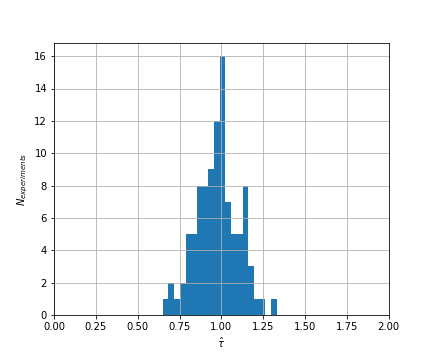
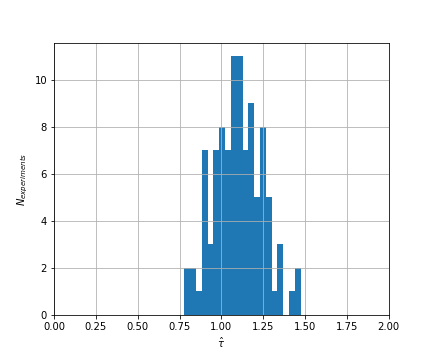
added the variance

diff --git a/slides/estimators.md b/slides/estimators.md
@@ -155,17 +155,20 @@ If we have $x_1,...,x_n$ independent randon variables that follow the gaussian d
 $$\log \mathcal{L}(\mu, \sigma^2) = \sum_{i=1}^n \log f(x_i;\mu,\sigma^2) = \sum_{i=1}\left(\log\frac{1}{\sqrt{2\pi}}+ \frac{1}{2}\log\frac{1}{\sigma^2}- \frac{(x_i - \mu)^2}{2\sigma^2}\right)$$
 ---
 # ML method: Example II
+
 Calculating the derivatives for $\mu$ and $\sigma^2$ we have:
 $$\hat{\mu} = \frac{1}{n}\sum_{i=1}^n x_i$$
 and
 $$\hat{\sigma^2}= \frac{1}{n}\sum_{i=1}^n(x_i- \mu)^2$$
 ---
 # ML method: Example II
+
 * The estimator for $\mu$ is unbiased, but we find that $E[\hat{\sigma^2}] = \frac{n - 1}{n}\sigma^2$, so the ML estiamtor for $\sigma^2$ has a bias, that disappears when $n \rightarrow \infty$.
 * To have an unbiased estimator we can use:
   $$ s^2 = \frac{1}{n - 1}\sum_{i=1}^n(x_i- \mu)^2$$
 ---
 # Variance of Estimators
+
 Once we have defined the estimators, we want to report its _statistical error_. I.e., how widely the estimate will distribute if we repeat the measurement many times. We are going to see 4 methods:
 1. Analytical (when possible)
 2. Monte Carlo method
@@ -175,27 +178,107 @@ Once we have defined the estimators, we want to report its _statistical error_. 
 ---
 
 # Variance of Estimators: Analytical 
+
 In some cases we can calculate the variance analytically. For example for the exponential distribution.
 * We found the estimator as:  $\hat{\tau} = \frac{1}{n}\sum_{i=1}^n t_i$
 * Variance is defined as: $V[\hat{\tau}] = E[\hat{\tau^2}] - (E[\hat{\tau}])^2$
 
 $$=\int...\int\left(\frac{1}{n}\sum_{i=1}^n t_i\right)^2\frac{1}{\tau}e^{-t_1/\tau}...\frac{1}{\tau}e^{-t_n/\tau} {\rm d}t_1...{\rm d}t_n - \left(\int...\int\left(\frac{1}{n}\sum_{i=1}^n t_i\right)\frac{1}{\tau}e^{-t_1/\tau}...\frac{1}{\tau}e^{-t_n/\tau} {\rm d}t_1...{\rm d}t_n\right)^2$$
 $$= \frac{\tau^2}{n}$$
-* Note that the variance depends on $\tau$ the __true value__. In practice we take $\hat{\tau}$ as the value for the variance.
+* Note that the variance depends on $\tau$ the __true value__. In practice we take $\hat{\tau}$ as the value for the variance. In our example with 50 events we have:  $\hat{\sigma}_{\hat{\tau}} = \sqrt{V[\hat{\tau}]} = \sqrt{\hat{\tau}^2/n} = 0.15$
+
 ---
 # Variance of Estimators: Monte Carlo
+
 In several cases, we cannot calcualte the variance analytically. In those cases we can use a Monte Carlo method:
 
 ```python
 nexperiments = 100
 tau_estimates = []
 for i in range(0, nexperiments):
-   data = np.random.exponential(tau, nevents)
-   tau_estimates.append(1./nevents * np.sum(data))
+   data = np.random.exponential(tau_estimate, nevents)tau_estimates.append(1./nevents * np.sum(data))
 ```
+:point_right: Note that we used $\hat{\tau}$ to generate the pseudo-samples since we don't have access to the true $\tau$.
+
 ---
 # Variance of Estimators: Monte Carlo
 ![](./figs/tau_estimate_distribution.png)
 
+We obtained a standard deviation of $\hat{\sigma}_{\hat{\tau}} = 0.14$. 
+
+---
+# Variance of Estimators: The Rao-Cramer-Frechet Limit
+
+The _information inequality_ (RCF) sets a lower bound on the variance of any estimator:
+
+$$V[\hat{\theta}] \geq \frac{\left(1+\frac{\partial b}{\partial \theta}\right)^2}{E\left[-\frac{\partial^2 \log \mathcal{L}}{\partial \theta^2}\right]}$$
+This is the **Minimum Variance Bound**, where $b$ is the bias $(b = E[\hat{\theta} - \theta])$. For unbiased estimatos we have the Cramer-Rao bound:
+$$V[\hat{\theta}] \geq  \frac{1}{E\left[-\frac{\partial^2 \log \mathcal{L}}{\partial \theta^2}\right]} = \frac{1}{\mathcal{I}(\theta)}$$
+
+where $\mathcal{I}(\theta) = - E\left[\frac{\partial^2 \log \mathcal{L}}{\partial \theta^2}\right]$ is the **Fisher information**.
+
+---
+# Variance of Estimators: The Rao-Cramer-Frechet Limit
+
+For the case of more parameters $\vec{\theta} = (\theta_1,...\theta_n)$, the covariance matrix of their estimators, $V_{ij}$ is given by:
+$$(V^{-1})_{ij} = E\left[-\frac{\partial^2\log\mathcal{L}}{\partial\theta_i\partial\theta_j}\right] $$
+It is impractical, in many instances, to calculate the RCF bound instead we can estimate it as:
+
+$$(\widehat{V^{-1}})_{ij} = -\frac{\partial^2\log\mathcal{L}}{\partial\theta_i\partial\theta_j}\Bigr|_{\vec{\theta}=\hat{\vec{\theta}}} $$
+
+and for one parameter:
+
+$$\widehat{\sigma^2_{\hat{\theta}}} = \left(-1\Bigr/\frac{\partial^2\log\mathcal{L}}{\partial\theta^2}\right)\Bigr|_{\theta=\hat{\theta}} $$
 
 
+---
+
+# Variance of Estimators: The Graphic Method
+
+The graphic method is consists on evaluating the shape of the likelihood around its minuma (we saw this in BAC3 labs). For that we can expand in as Taylor expansion:
+
+$$\log {\mathcal{L}(\theta)} = \log {\mathcal{L}(\hat{\theta})} + \left[\frac{\partial \log \mathcal{L}}{\partial \theta}\right]_{\theta = \hat{\theta}}(\theta - \hat{\theta}) + \frac{1}{2}\left[\frac{\partial^2 \log \mathcal{L}}{\partial \theta^2}\right]_{\theta = \hat{\theta}}(\theta - \hat{\theta})^2 + ...$$
+By definition $\log {\mathcal{L}(\hat{\theta})} = \log \mathcal{L}_{max}$. Also the first derivative is 0, since it's evaluted at its maximum so:
+ $$ \log {\mathcal{L}(\theta)} = \log \mathcal{L}_{max} - \frac{(\theta - \hat{\theta})^2}{2 \widehat{\sigma_{\widehat{\theta}}^2}}$$
+or 
+  $$\log \mathcal{L}(\theta \pm \widehat{\sigma_{\hat{\theta}}}) =\log \mathcal{L}_{max} - \frac{1}{2}$$ 
+---
+# Variance of Estimators: The Graphic Method
+
+![](./figs/tau_variance_graph.png) 
+In this case: $\Delta \hat{\tau}_+ = 0.16$ and  $\Delta \hat{\tau}_- = 0.14 \rightarrow \hat{\sigma}_{\hat{\tau}} \approx 0.15$
+
+---
+
+# Variance of Estimators: Gaussian approximation
+The M.L. estimate, $\hat{\theta}$, depends on randomly distributed variables, $x_1,...,x_n$, therefore it also a *random variable*. Since it depends on a large number of random variables, the **Central Limit Theorem** says that $\hat{\theta}$ should follow a gaussian distribution with the true, $\theta$, as central value:
+$$\mathcal{L}(\hat{\theta})=\frac{1}{\sqrt{2\pi\sigma^2_\hat{\theta}}}e^{-\frac{1}{2}\frac{(\theta-\hat{\theta})^2}{\sigma^2_\hat{\theta}}}$$
+or in $\log$:
+
+$$\log \mathcal{L}(\hat{\theta})= -\frac{1}{2}\frac{(\theta-\hat{\theta})^2}{\sigma^2_\hat{\theta}} - \frac{1}{2}\log(2\pi\sigma^2_\hat{\theta}) $$
+
+which is similar to the result we obteined with the Taylor expansion.
+
+---
+
+# Variance of Estimators: Two correlated estimates
+
+If we have different estimates, $\hat{\theta}_1, \hat{\theta}_2$ that are correlated. For large $n$, the likelihood takes the gaussian approximation:
+
+$$\log \mathcal{L}(\hat{\theta}_1, \hat{\theta}_2) \approx \frac{1}{\sqrt{1-\rho^2}} \frac{1}{2\pi\sqrt{\sigma^2_\hat{\theta_1}\sigma^2_\hat{\theta_2}}}e^{-\frac{1}{2(1-\rho^2)}\frac{(\theta_1-\hat{\theta}_1)^2}{\sigma^2_\hat{\theta_1}}\frac{(\theta_2-\hat{\theta_2})^2}{\sigma^2_\hat{\theta_2}}-2\rho\frac{(\theta_1-\hat{\theta}_1)}{\sigma_\hat{\theta_1}}\frac{(\theta_2-\hat{\theta}_2)}{\sigma_\hat{\theta_1}}}$$
+
+The $\log \mathcal{L}$ then takes a quadratic form near maximum which is a paraboloid centered at $\hat{\theta}_1, \hat{\theta}_2$ in the $\theta_1, \theta_2$ space. 
+
+---
+# Variance of Estimators: Two correlated estimates
+The contour $\log \mathcal{L} (\hat{\theta}_1, \hat{\theta}_2) = \log \mathcal{L}_{max} - 1/2$ is an ellipse:
+
+![](./figs/2D_likelihood.png)
+
+---
+
+# Variance of Estimators: Two correlated estimates
+The angle of the ellipse, $\phi$ is given by:
+$$\tan 2\phi = \frac{2\rho\hat{\sigma}_{\theta_1}\hat{\sigma}_{\theta_2}}{\hat{\sigma}^2_{\theta_1} - \hat{\sigma}^2_{\theta_1}}$$
+
+Correlations between estimators result in an increase of their standard deviations. 
